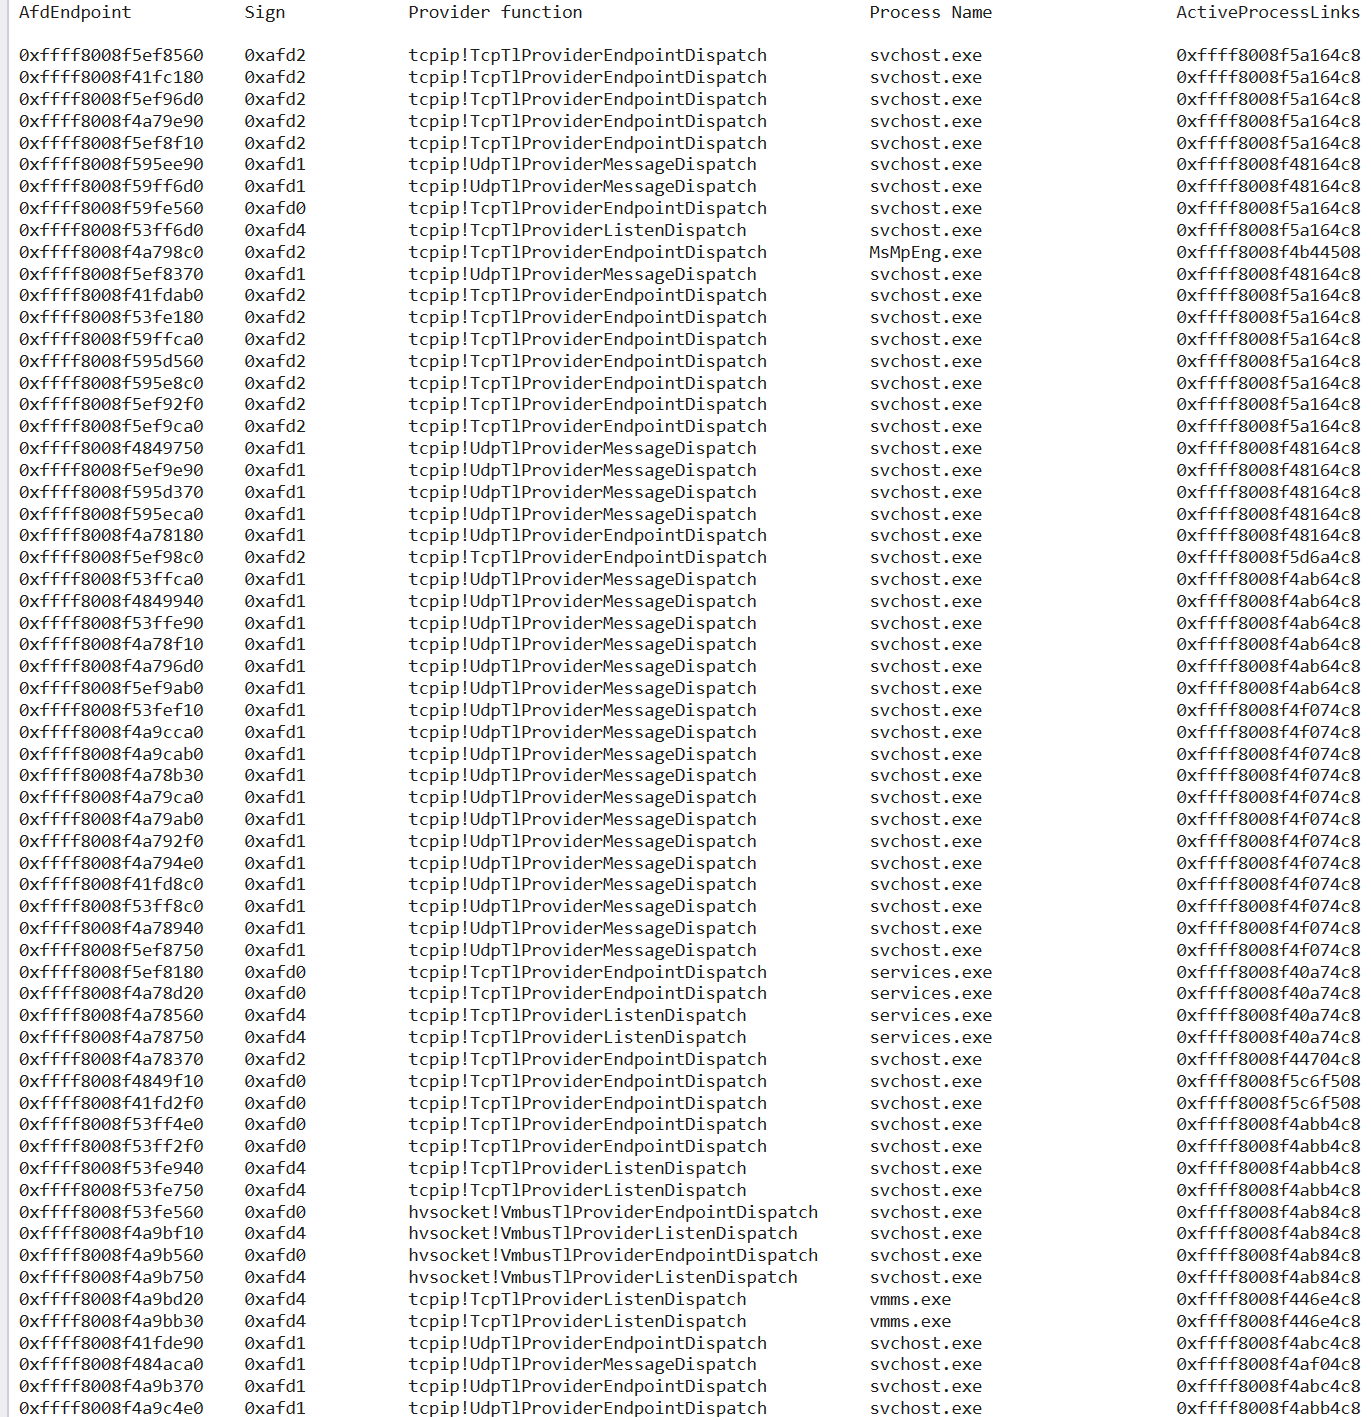
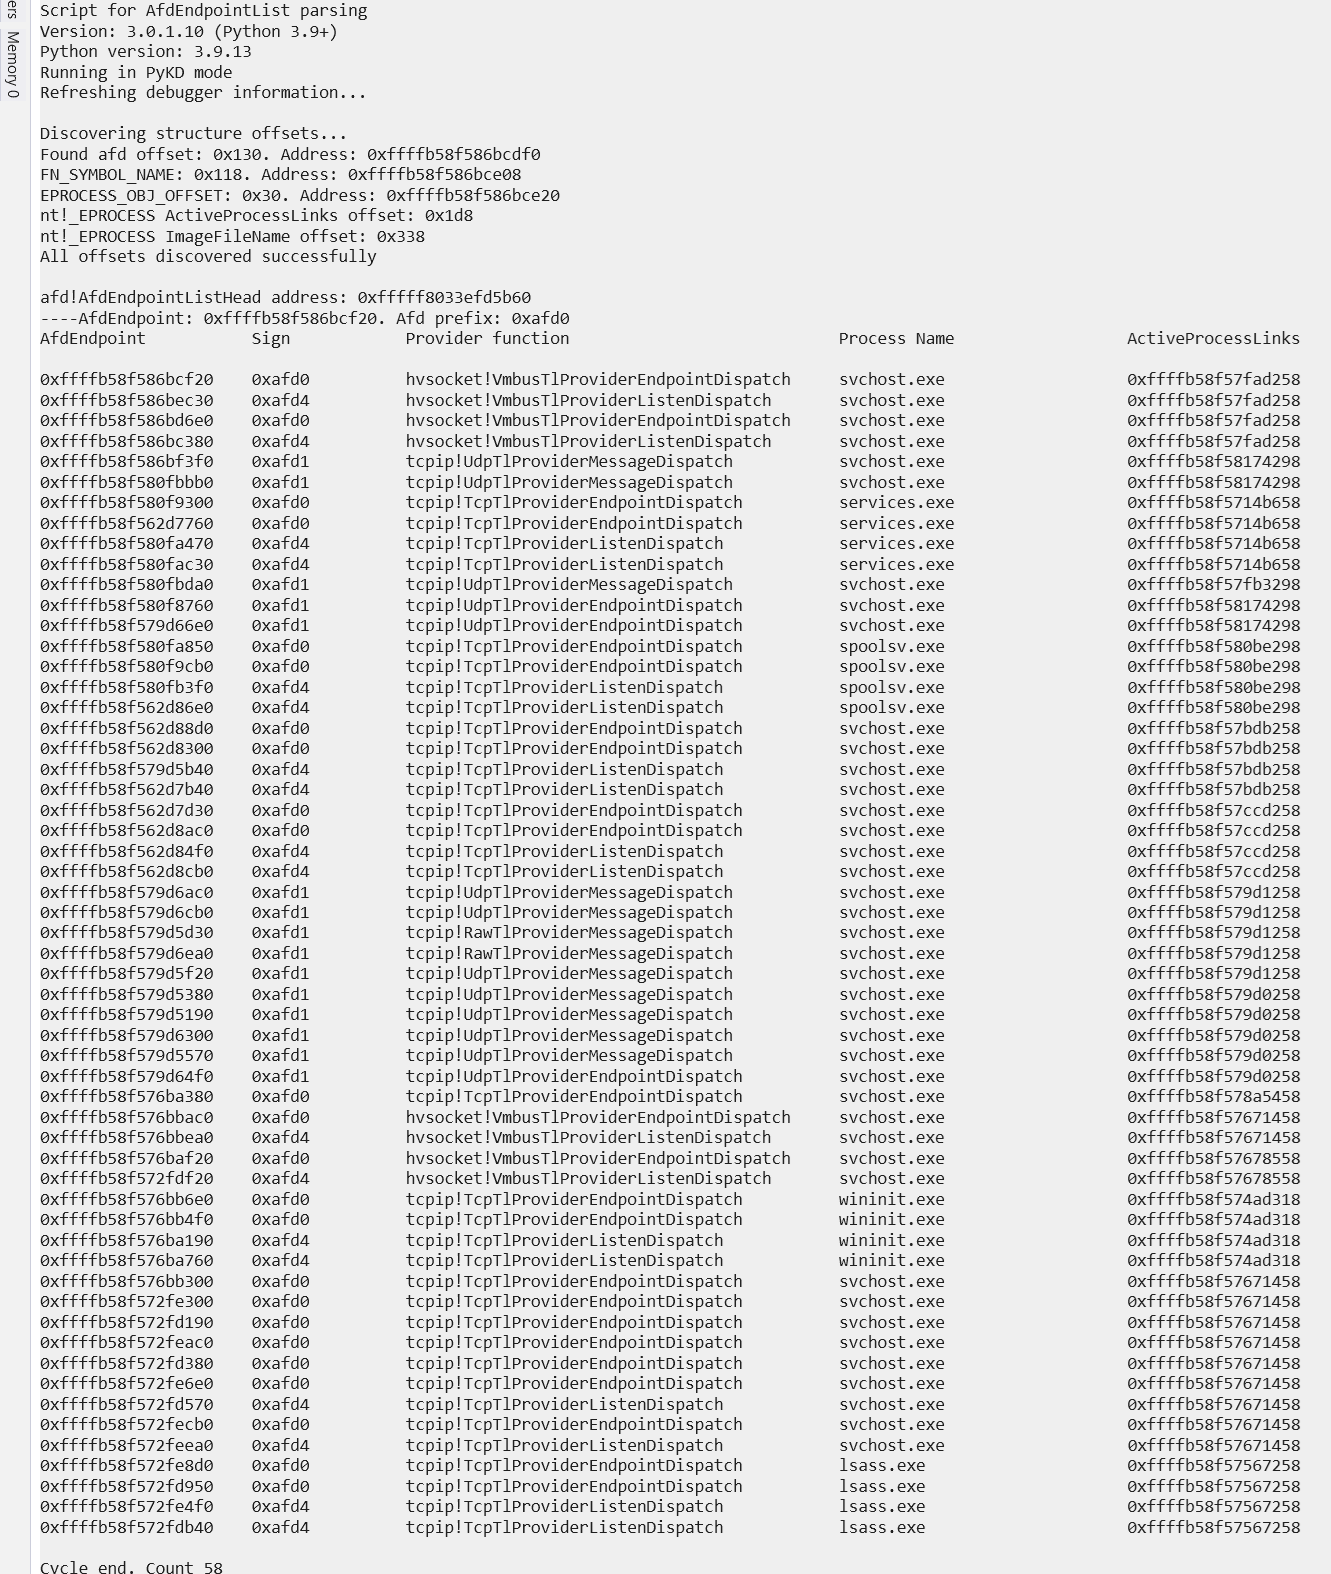
Updates

Changed region(s): [[0.0, 0.0, 0.5853, 1.0], [0.8317, 0.0, 1.0, 1.0], [0.6161, 0.0, 0.7393, 1.0]]

diff --git a/ParseAfdEndpointListHead.py b/ParseAfdEndpointListHead.py
@@ -1,56 +1,71 @@
 __author__ = "Gerhart"
 __license__ = "GPL3"
-__version__ = "1.3.0"
+__version__ = "1.4.0"
 
-# based on http://www.codemachine.com/article_findafdendpoints.html
-# list afd endpoints with some additional info. Hyper-V sockets endpoints are included.
-# Use pykd WinDBG extension for script execution
+# Based on http://www.codemachine.com/article_findafdendpoints.html
+# list afd.sys driver endpoints with some additional information. Hyper-V sockets endpoints are included.
+# Use pykd WinDBG extension for script execution.
+# Latest original available pykd version for python 3.9, but you can try to use fork https://github.com/ivellioscolin/pykd (python 3.13 was announce, when that script was published)
 
 from pykd import *
 import sys
 
-win2019 = False
-win11 = False
-win2022 = False
+EPROCESS_OBJ_OFFSET 	= 0
+ACTIVE_PROCESS 			= 0
+AFD_ENDPOINT_OFFSET 	= 0
+FN_SYMBOL_NAME 			= 0
+IMAGE_NAME 				= 0
 
-EPROCESS_AFD_OFFSET = 0x28
-ACTIVE_PROCESS = 0
-AFD_ENDPOINT_OFFSET = 0
-FN_SYMBOL_NAME = 0
-IMAGE_NAME = 0
+def findEprocessOffset(AfdEndpoint):
 
-if win2019:
-	AFD_ENDPOINT_OFFSET = 0x120
-	FN_SYMBOL_NAME = 0x108
-	IMAGE_NAME = 0x450
+	global AFD_ENDPOINT_OFFSET
 
-if win11:
-	AFD_ENDPOINT_OFFSET = 0x130
-	FN_SYMBOL_NAME = 0x118
-	IMAGE_NAME = 0x5a8
-if win2022:
-	AFD_ENDPOINT_OFFSET = 0x120
-	FN_SYMBOL_NAME = 0x108
-	IMAGE_NAME = 0x5a8
+	ptrProcessStart     = 0x20
+	ptrProcessEnd       = 0x40
+
+	for i in range(AfdEndpoint + ptrProcessStart - AFD_ENDPOINT_OFFSET, AfdEndpoint + ptrProcessEnd - AFD_ENDPOINT_OFFSET):
+
+		eprocessPtr = ptrQWord(i)
+		
+		try:
+			eprocessFlags = ptrQWord(eprocessPtr)
+		except:
+			continue
+
+		if eprocessFlags == 3:
+
+			global EPROCESS_OBJ_OFFSET
+			EPROCESS_OBJ_OFFSET = i - (AfdEndpoint - AFD_ENDPOINT_OFFSET)
+
+			print("EPROCESS_OBJ_OFFSET: " + hex(EPROCESS_OBJ_OFFSET) + ". Address: ", hex(i))
+
+			return
 
 
 def findAfdOffset(AfdEndpoint):
-	afdOffsetEnd = 0x110
-	afdOffsetBegin = 0x150
-	for i in range(AfdEndpoint-afdOffsetBegin, AfdEndpoint-afdOffsetEnd):
+
+	afdOffsetEnd     = 0x100
+	afdOffsetBegin   = 0x180
+
+	for i in range(AfdEndpoint - afdOffsetBegin, AfdEndpoint - afdOffsetEnd):
 
 		afd = pykd.ptrWord(i) & 0xafd0
 
 		if (afd == 0xafd0): 
-			print("found afd offset ", hex(AfdEndpoint - i))
+
 			global AFD_ENDPOINT_OFFSET
 			AFD_ENDPOINT_OFFSET = AfdEndpoint - i
+
+			print("Found afd offset (AFD_ENDPOINT_OFFSET): " + hex(AfdEndpoint - i) + ". Address: " + hex(i))
+
 			return
 
 def findProviderSymbolOffset(AfdEndpoint):
-	provNameOffsetEnd = 0x100
-	provNameOffsetBegin = 0x140
-	for i in range(AfdEndpoint-provNameOffsetBegin, AfdEndpoint-provNameOffsetEnd):
+
+	provNameOffsetEnd    = 0x90
+	provNameOffsetBegin  = 0x160
+
+	for i in range(AfdEndpoint - provNameOffsetBegin, AfdEndpoint - provNameOffsetEnd):
 		prvName = ""
 
 		try:
@@ -59,9 +74,11 @@ def findProviderSymbolOffset(AfdEndpoint):
 			continue
 
 		if prvName.find("Provider") != -1:
+
 			global FN_SYMBOL_NAME
 			FN_SYMBOL_NAME = AfdEndpoint - i
-			print("FN_SYMBOL_NAME: ", hex(FN_SYMBOL_NAME))
+
+			print("FN_SYMBOL_NAME: " + hex(FN_SYMBOL_NAME) + ". Address: ", hex(pykd.ptrQWord(i)))
 
 def findFieldOffset(structName, fieldName):
 
@@ -78,20 +95,23 @@ def findFieldOffset(structName, fieldName):
 
 
 def findEprocessFieldOffset():
+
 	global ACTIVE_PROCESS
 	global IMAGE_NAME
+
 	ACTIVE_PROCESS = findFieldOffset("nt!_EPROCESS","ActiveProcessLinks")
 	IMAGE_NAME = findFieldOffset("nt!_EPROCESS","ImageFileName")
 
 
 def findOffsets(AfdEndpoint):
+
 	findAfdOffset(AfdEndpoint)
 	findProviderSymbolOffset(AfdEndpoint)
 	findEprocessFieldOffset()
+	findEprocessOffset(AfdEndpoint)
 
 
-
-print("Script for AfdEndpointList head parsing")
+print("Script for AfdEndpointList parsing")
 print("Executing .reload command ...")
 pykd.dbgCommand(".reload")
 
@@ -99,14 +119,15 @@ afd = module("afd")
 ListHead = afd.AfdEndpointListHead
 
 if ListHead == "":
-	print("Check in WinDBG, if x afd!AfdEndpointListHead symbol name is presented. Try restart WinDBG")
+	print("Check, if afd!AfdEndpointListHead symbol name is presented. Try restart debugger (WinDBG (classic), kd, WinDBG)")
 	exit()
 
 ptrNext = ptrQWord(ListHead)
 findOffsets(ptrNext)
 
-print("afd!AfdEndpointListHead address is ", hex(ListHead))
-print("----AfdEndpoint:", hex(ptrNext), "afd prefix: ", hex(ptrWord(ptrNext-AFD_ENDPOINT_OFFSET)))
+print("afd!AfdEndpointListHead address: " + hex(ListHead))
+print("----AfdEndpoint: "+hex(ptrNext) +". Afd prefix: ", hex(ptrWord(ptrNext - AFD_ENDPOINT_OFFSET)))
+print("-------------------------------------------------------------------------------------------------------------------------")
 
 count = 1
 
@@ -116,14 +137,13 @@ print("")
 
 while (ptrNext != ListHead) & (ptrNext != 0xffffffffffffffff):
 
-	addPtrNext = hex(ptrNext);
-	afdSign = hex(ptrWord(ptrNext-AFD_ENDPOINT_OFFSET))
-	afdProviderFunction = findSymbol(ptrQWord(ptrNext-FN_SYMBOL_NAME))
-	afdProcessName = loadCStr(ptrQWord(ptrNext-AFD_ENDPOINT_OFFSET+EPROCESS_AFD_OFFSET)+IMAGE_NAME)
-	afdActiveProcessLink = hex(ptrQWord(ptrNext-AFD_ENDPOINT_OFFSET+EPROCESS_AFD_OFFSET)+ACTIVE_PROCESS)
-
+	addPtrNext = hex(ptrNext)
+	afdSign = hex(ptrWord(ptrNext - AFD_ENDPOINT_OFFSET))
+	afdProviderFunction = findSymbol(ptrQWord(ptrNext - FN_SYMBOL_NAME))
+	afdProcessName = loadCStr(ptrQWord(ptrNext - AFD_ENDPOINT_OFFSET + EPROCESS_OBJ_OFFSET) + IMAGE_NAME)
+	afdActiveProcessLink = hex(ptrQWord(ptrNext - AFD_ENDPOINT_OFFSET + EPROCESS_OBJ_OFFSET) + ACTIVE_PROCESS)
 	print(format_string.format(addPtrNext, afdSign, afdProviderFunction, afdProcessName, afdActiveProcessLink))
 	ptrNext = ptrQWord(ptrNext)
-	count = count+1
+	count = count + 1
 
 print("Cycle end. Count", count)

diff --git a/README.md b/README.md
@@ -7,8 +7,8 @@ Different scripts for Microsoft Hyper-V internals researches. Folder ida75 conta
 - CreatemVmcallHandlersTable2016.py - IDA Python script for extracting hvcalls from hvix64.exe, hvax64.exe Windows Server 2016
 - CreatemVmcallHandlersTable2019.py - IDA Python script for extracting hvcalls from hvix64.exe, hvax64.exe Windows Server 2019
 
-For latest Windows versions (Windows Server 2022 and Windows 11) and older Windows version with fresh patches, i recommend to use extract_hvcalls or extract_hvcalls_gui scripts, which are dynamically extract new hypercalls.
-Extract hvcalls gui video demonstration: https://www.youtube.com/watch?v=ohO4Hs4y59M 
+For latest Windows versions (Windows Server 2025 and Windows 11) and older Windows version with fresh patches, i recommend to use Hvcall GUI C# app launcher for python scripts, which are dynamically extract hypercalls.
+Extract hvcalls gui (later Hvcall GUI) video demonstration: https://www.youtube.com/watch?v=ohO4Hs4y59M or read that document: 
 
 Some of scripts are using pykd: https://githomelab.ru/pykd/pykd/-/wikis/home.
 If server is unavailable, you can use next instructions for pykd launching:
@@ -26,10 +26,12 @@ If server is unavailable, you can use next instructions for pykd launching:
     !py path_to_script
     ```
 
-ParseAfdEndpointListHead.py - script for parsing afd!AfdEndpointListHead structure (WinDBG + pykd)
+or see that resource: https://github.com/ivellioscolin/pykd
+
+ParseAfdEndpointListHead.py - script for parsing afd!AfdEndpointListHead structure (WinDBG or WinDBG (classic), kd + pykd)
 
 ![](./images/image001.png)
 
-ParseAfdTlTransportListHead.py - script for parsing afd!AfdTlTransportListHead (WinDBG + pykd)
+ParseAfdTlTransportListHead.py - script for parsing afd!AfdTlTransportListHead (WinDBG or WinDBG (classic), kd + pykd)
 
 ![](./images/image002.png)
